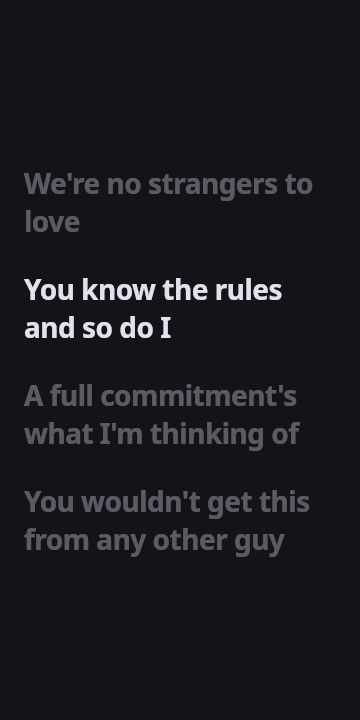
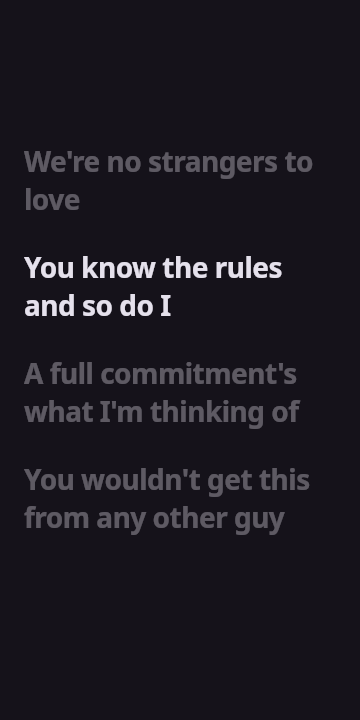
feat(m5-step4): FLIP spring auto-scroll with 400ms gesture lockout

Changed region(s): [[0.0611, 0.2139, 0.8556, 0.7944], [0.7944, 0.2139, 0.8861, 0.275]]

diff --git a/composeApp/src/commonMain/kotlin/com/softify/app/ui/components/LyricsView.kt b/composeApp/src/commonMain/kotlin/com/softify/app/ui/components/LyricsView.kt
@@ -31,6 +31,11 @@ import androidx.compose.ui.unit.Constraints
 import androidx.compose.ui.unit.dp
 import androidx.compose.ui.unit.sp
 import com.softify.app.util.PlaybackLogger
+import androidx.compose.foundation.gestures.scrollBy
+import kotlin.math.abs
+import kotlin.time.TimeMark
+import kotlin.time.TimeSource
+import kotlinx.coroutines.delay
 import kotlinx.coroutines.isActive
 
 /**
@@ -246,14 +251,60 @@ fun LyricsView(
     }
 
     val listState = rememberLazyListState()
+    val visualTranslationY = remember { Animatable(0f) }
+    var manualScrollEndTime by remember { mutableStateOf<TimeMark?>(null) }
 
-    // Smooth auto-scroll to keep active line centered (triggers ONLY when active line changes)
-    LaunchedEffect(activeIndex) {
-        if (activeIndex in lines.indices) {
-            listState.animateScrollToItem(
-                index = activeIndex,
-                scrollOffset = -150
-            )
+    LaunchedEffect(listState.isScrollInProgress) {
+        if (listState.isScrollInProgress) {
+            manualScrollEndTime = null
+            visualTranslationY.snapTo(0f)
+        } else {
+            manualScrollEndTime = TimeSource.Monotonic.markNow()
+        }
+    }
+
+    // FLIP spring auto-scroll with 400ms gesture lockout (instant scrollBy shift + damped spring graphicsLayer decay)
+    LaunchedEffect(activeIndex, listState.isScrollInProgress) {
+        if (activeIndex !in lines.indices) return@LaunchedEffect
+
+        // 400ms gesture lockout: suppress while user touches or flings
+        while (listState.isScrollInProgress) {
+            delay(50)
+        }
+        val endTime = manualScrollEndTime
+        if (endTime != null) {
+            val elapsed = endTime.elapsedNow().inWholeMilliseconds
+            if (elapsed < 400L) {
+                delay(400L - elapsed)
+            }
+        }
+        if (listState.isScrollInProgress) return@LaunchedEffect
+
+        val visibleItems = listState.layoutInfo.visibleItemsInfo
+        val targetItem = visibleItems.find { it.index == activeIndex }
+        val viewportHeight = listState.layoutInfo.viewportSize.height
+        val targetCenter = (viewportHeight * 0.35f).toInt().coerceAtLeast(80)
+
+        if (targetItem != null) {
+            val currentCenter = targetItem.offset + targetItem.size / 2
+            val delta = (currentCenter - targetCenter).toFloat()
+            if (abs(delta) > 2f) {
+                // FLIP shift: instant list viewport update
+                listState.scrollBy(delta)
+                // Inverse visual offset on graphicsLayer to prevent any visual jump
+                visualTranslationY.snapTo(delta)
+                // Decays smoothly to 0 with a damped spring
+                visualTranslationY.animateTo(
+                    targetValue = 0f,
+                    animationSpec = spring(
+                        dampingRatio = 0.85f,
+                        stiffness = 200f
+                    )
+                )
+            }
+        } else {
+            // Far jump / initial positioning
+            listState.scrollToItem(activeIndex, scrollOffset = -targetCenter)
         }
     }
 
@@ -278,6 +329,7 @@ fun LyricsView(
             Box(
                 modifier = Modifier
                     .fillMaxWidth()
+                    .graphicsLayer { translationY = visualTranslationY.value }
                     .alpha(animatedAlpha)
                     .clickable(
                         interactionSource = remember { MutableInteractionSource() },
